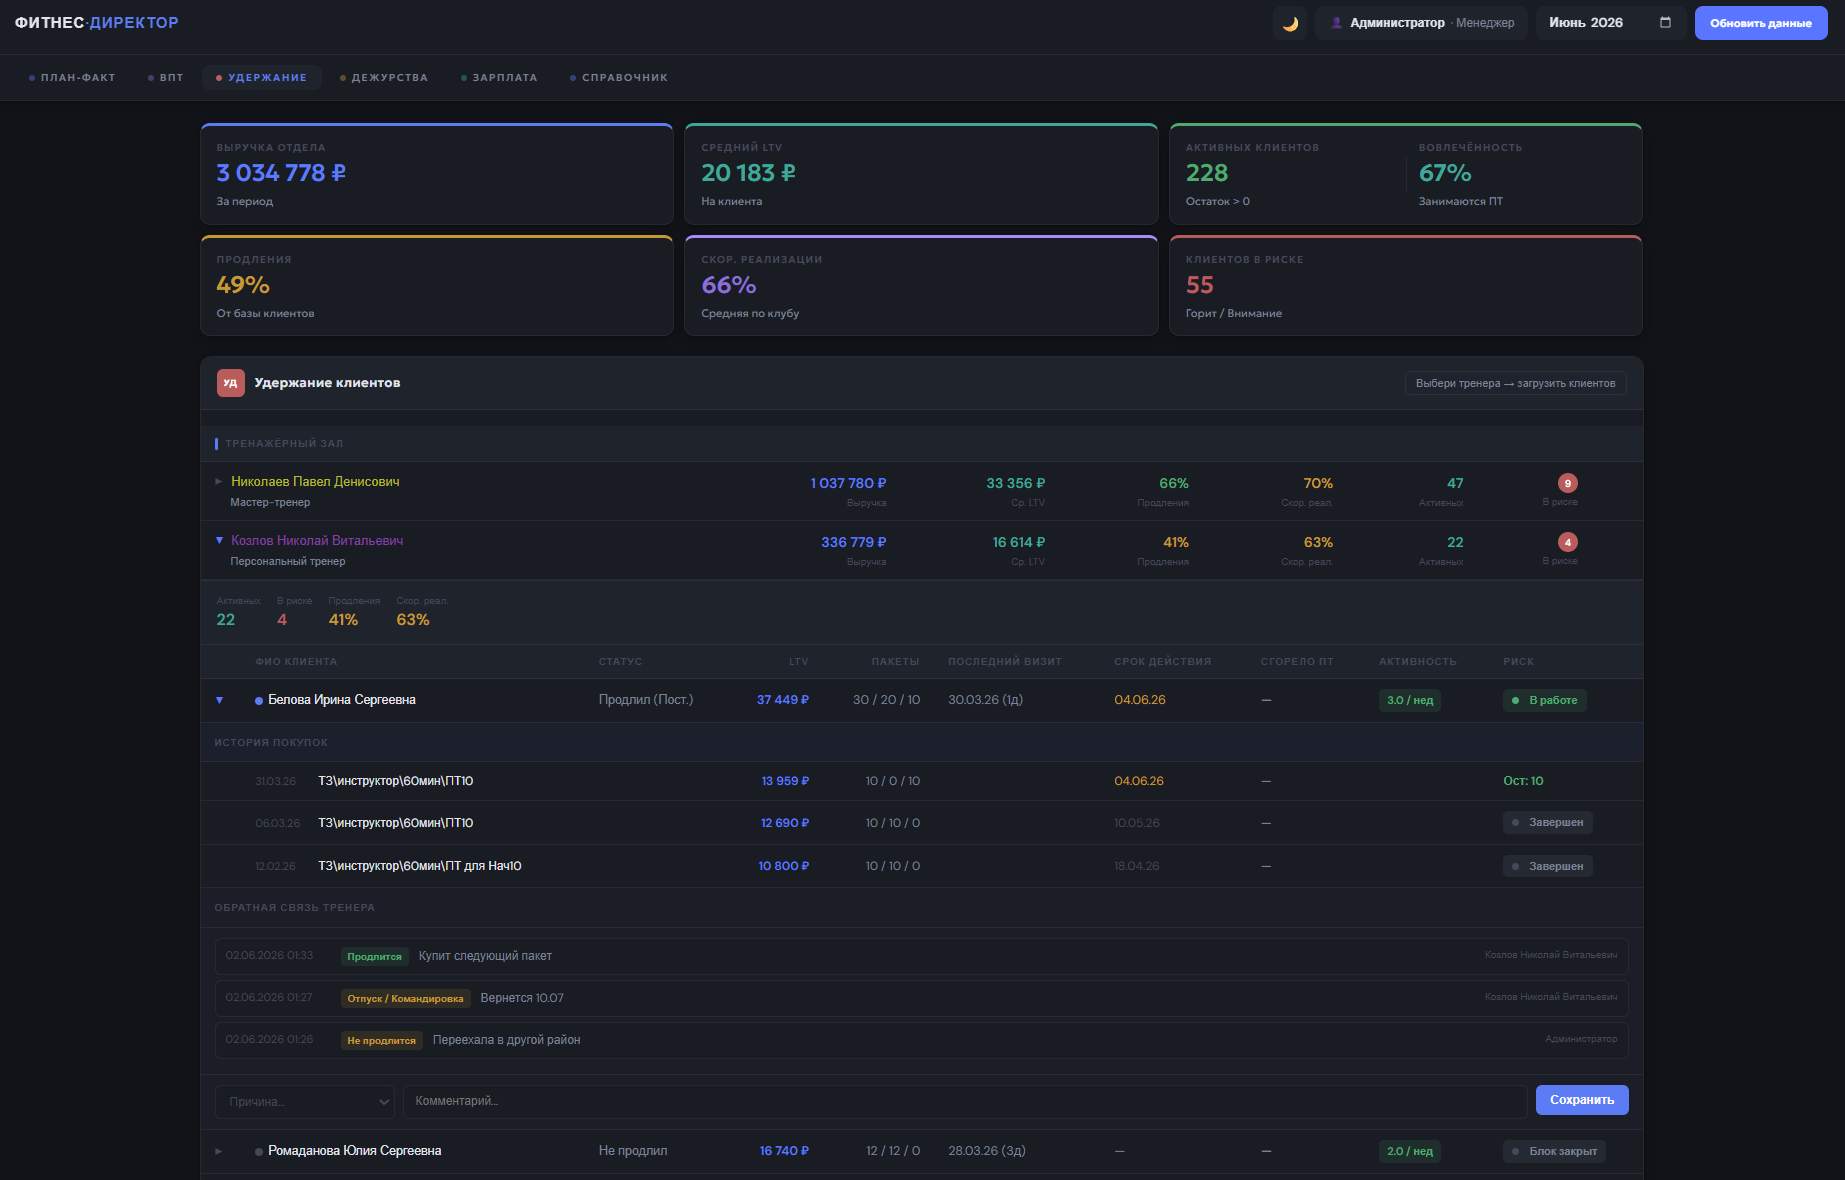
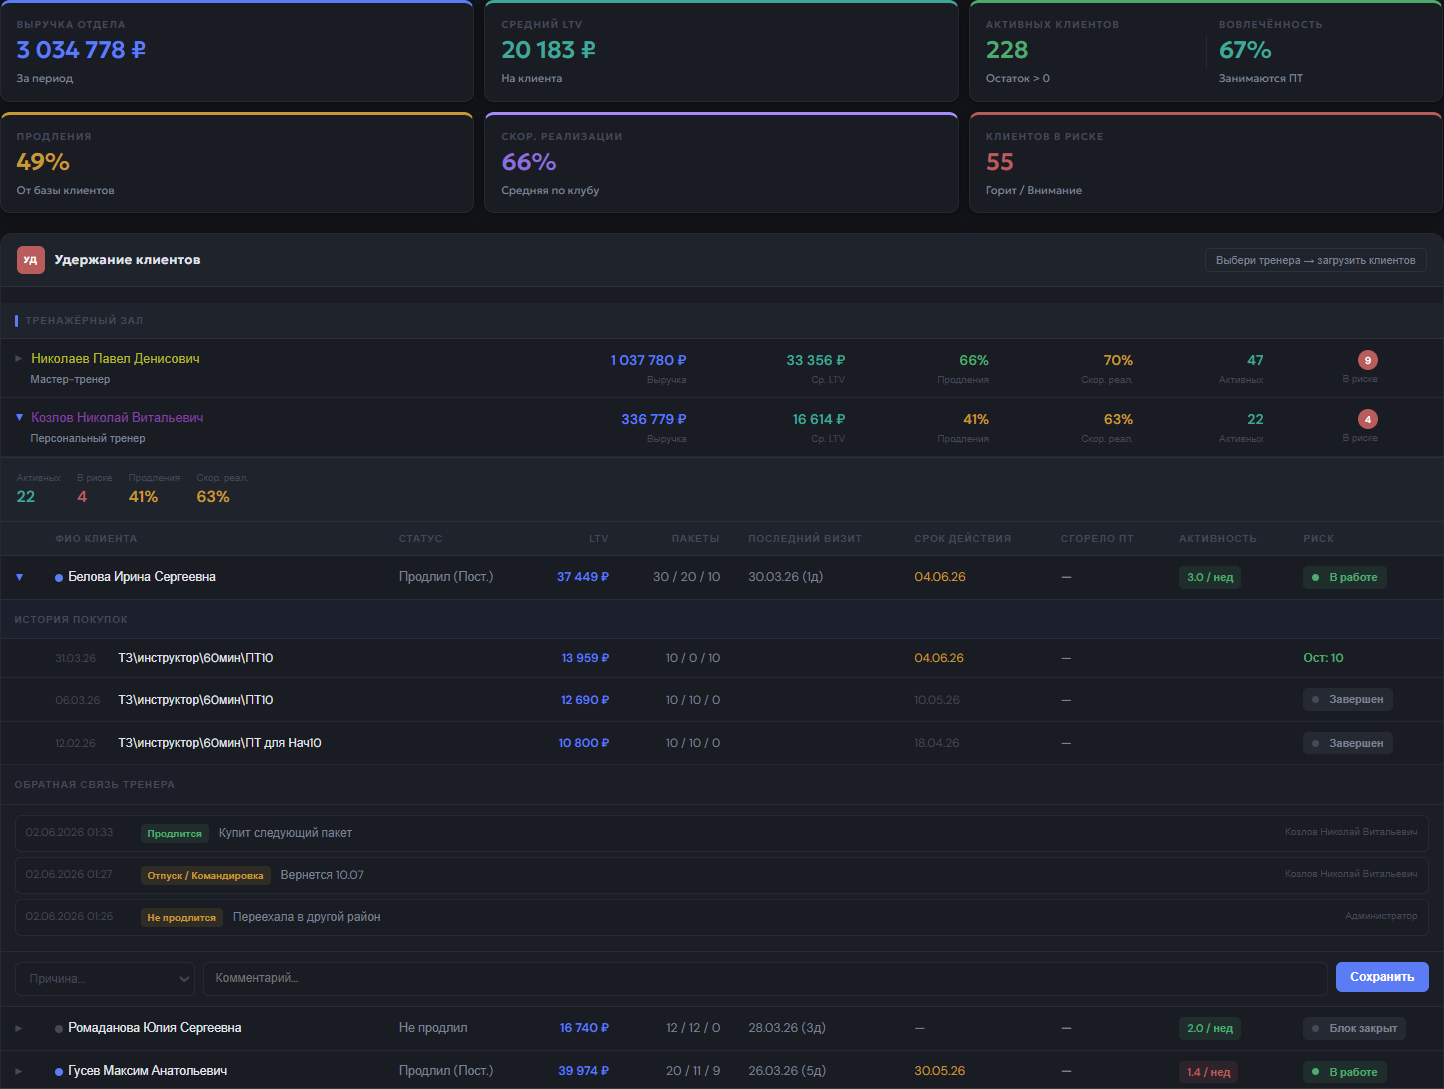
Update retention screenshot and restack VPT module comparison
- Replace module-retention.png with new landscape-format screenshot
- VPT module: revert to stacked layout (large 1C screenshot, divider,
  large FD screenshot) instead of side-by-side

diff --git a/index.html b/index.html
@@ -856,21 +856,27 @@ html{scroll-behavior:smooth;}
           </p>
         </div>
       </div>
-      <!-- Два скриншота side-by-side -->
-      <div class="mod-shots" style="display:grid;grid-template-columns:1fr 1fr;gap:20px;align-items:start;">
-        <div>
-          <div style="display:flex;align-items:center;gap:8px;margin-bottom:10px;">
-            <div style="width:20px;height:20px;background:#ff0000;border-radius:4px;display:flex;align-items:center;justify-content:center;font-size:9px;font-weight:900;color:#fff;font-family:serif;flex-shrink:0;">1С</div>
-            <div style="font-family:var(--font-head);font-size:11px;font-weight:700;color:var(--text3);text-transform:uppercase;letter-spacing:1px;">1С Фитнес-клуб</div>
-          </div>
-          <img src="img/compare-1c.png" alt="Конверсия ВПТ в 1С — отдельный отчёт без бонусов и выплат" style="width:100%;border-radius:10px;box-shadow:0 16px 48px rgba(0,0,0,.45);display:block;border:1px solid rgba(255,255,255,.08);">
+      <!-- Стек: большой скрин 1С, затем большой скрин ФД -->
+      <div style="margin-bottom:24px;">
+        <div style="display:flex;align-items:center;gap:10px;margin-bottom:12px;">
+          <div style="width:28px;height:28px;background:#ff0000;border-radius:6px;display:flex;align-items:center;justify-content:center;font-size:13px;font-weight:900;color:#fff;font-family:serif;flex-shrink:0;">1С</div>
+          <div style="font-family:var(--font-head);font-size:13px;font-weight:700;color:var(--text3);text-transform:uppercase;letter-spacing:1px;">1С Фитнес-клуб</div>
         </div>
-        <div>
-          <div style="display:flex;align-items:center;gap:8px;margin-bottom:10px;">
-            <div style="padding:3px 10px;background:rgba(99,102,241,.1);border:1px solid rgba(99,102,241,.25);border-radius:5px;font-family:var(--font-head);font-size:10px;font-weight:700;color:var(--accent2);letter-spacing:.5px;">ФИТНЕС·ДИРЕКТОР</div>
-          </div>
-          <img src="img/module-vpt.png" alt="ВПТ в Фитнес-директоре — конверсия, выплаты и бонусы на одном экране" style="width:100%;border-radius:10px;box-shadow:0 16px 48px rgba(0,0,0,.45),0 0 48px rgba(99,102,241,.08);display:block;border:1px solid rgba(99,102,241,.15);">
+        <img src="img/compare-1c.png" alt="Конверсия ВПТ в 1С — отдельный отчёт без бонусов и выплат" style="width:100%;border-radius:12px;box-shadow:0 20px 60px rgba(0,0,0,.5);display:block;border:1px solid rgba(255,255,255,.08);">
+      </div>
+
+      <!-- Разделитель -->
+      <div style="display:flex;align-items:center;gap:16px;margin-bottom:24px;">
+        <div style="flex:1;height:1px;background:var(--border);"></div>
+        <div style="padding:8px 20px;background:rgba(99,102,241,.08);border:1px solid rgba(99,102,241,.2);border-radius:100px;font-size:12px;font-weight:600;color:var(--accent2);white-space:nowrap;">тот же вопрос в Фитнес-директоре</div>
+        <div style="flex:1;height:1px;background:var(--border);"></div>
+      </div>
+
+      <div>
+        <div style="display:flex;align-items:center;gap:10px;margin-bottom:12px;">
+          <div style="padding:4px 14px;background:rgba(99,102,241,.1);border:1px solid rgba(99,102,241,.25);border-radius:6px;font-family:var(--font-head);font-size:13px;font-weight:700;color:var(--accent2);letter-spacing:.5px;">ФИТНЕС·ДИРЕКТОР</div>
         </div>
+        <img src="img/module-vpt.png" alt="ВПТ в Фитнес-директоре — конверсия, выплаты и бонусы на одном экране" style="width:100%;border-radius:12px;box-shadow:0 20px 60px rgba(0,0,0,.5),0 0 60px rgba(99,102,241,.08);display:block;border:1px solid rgba(99,102,241,.15);">
       </div>
     </div>
 
